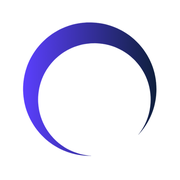
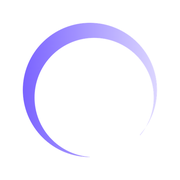
Znak w nagłówku jak w animacji orbity (o 20% wyższy od napisu), nowa ikona przeglądarki z sygnetu

Changed region(s): [[0.1111, 0.1111, 0.8889, 0.8889], [0.75, 0.6944, 0.8056, 0.75]]

diff --git a/docs/index.html b/docs/index.html
@@ -11,7 +11,6 @@
 <meta property="og:description" content="Każda strategia przechodzi przez ludzki umysł. Psychologia biznesu dla zarządów, liderów i zespołów.">
 <meta property="og:image" content="https://inevitable.zone/photos/karina-tomczyk.jpg">
 <link rel="canonical" href="https://inevitable.zone/">
-<link rel="icon" type="image/svg+xml" href="favicon.svg">
 <link rel="icon" type="image/png" sizes="32x32" href="favicon.png">
 <link rel="shortcut icon" href="favicon.ico">
 <link rel="apple-touch-icon" href="apple-touch-icon.png">
@@ -574,15 +573,15 @@ a.back{letter-spacing:.06em}
 
 /* header mark: crescent from the logo with text circling it */
 .logo{display:flex;align-items:center;gap:12px;text-decoration:none}
-.hd-mark{width:58px;height:58px;flex:none;overflow:visible}
-.hd-text{font-family:var(--sans);font-size:118px;font-weight:700;letter-spacing:.12em;fill:var(--ink)}
-@media (max-width:720px){.hd-mark{width:46px;height:46px}.logo{gap:9px}}
+.hd-mark{width:46px;height:46px;flex:none;overflow:visible}
+.hd-text{font-family:var(--sans);font-size:92px;font-weight:700;letter-spacing:.08em;fill:var(--ink)}
+@media (max-width:720px){.hd-mark{width:36px;height:36px}.logo{gap:9px}}
 </style>
 </head>
 <body>
 <header>
   <div class="canvas in bar" style="border:0;background:transparent">
-    <a class="logo" href="#top" aria-label="Inevitable Zone Institute"><svg class="hd-mark" viewBox="270.5 349.7 1120 1120" aria-hidden="true"><defs><linearGradient id="hdarc" gradientUnits="userSpaceOnUse" x1="400" y1="0" x2="1270" y2="0"><stop offset="0" stop-color="#5B3FFE"/><stop offset="1" stop-color="#0E1F3A"/></linearGradient><path id="hdcirc" d="M 335.5 909.7 a 495 495 0 1 1 990 0 a 495 495 0 1 1 -990 0"/></defs><path fill="url(#hdarc)" d="M 813.332031 482.863281 C 864.027344 480.777344 915.167969 487.660156 963.417969 503.230469 C 1003.9375 516.308594 1042.421875 535.507812 1077.25 559.980469 C 1144.238281 607.054688 1197.714844 673.621094 1228.621094 749.382812 C 1265.886719 840.722656 1270.347656 945.429688 1240.964844 1039.621094 C 1228.230469 1080.445312 1209.140625 1119.292969 1185.011719 1154.546875 C 1179.335938 1162.839844 1173.382812 1170.933594 1167.101562 1178.796875 C 1160.804688 1186.675781 1154.179688 1194.324219 1147.324219 1201.90625 C 1146.355469 1202.972656 1145.386719 1204.039062 1144.570312 1204.683594 C 1144.226562 1204.957031 1143.910156 1205.15625 1143.957031 1204.964844 C 1144.007812 1204.765625 1144.472656 1204.121094 1144.90625 1203.527344 C 1145.683594 1202.464844 1146.359375 1201.5625 1147.058594 1200.667969 C 1147.855469 1199.648438 1148.683594 1198.632812 1149.492188 1197.605469 C 1152.589844 1193.683594 1155.390625 1189.609375 1158.164062 1185.503906 C 1163.945312 1176.945312 1169.613281 1168.238281 1174.851562 1159.292969 C 1223.550781 1076.214844 1235.484375 972.730469 1209.394531 880.105469 C 1197.78125 838.882812 1178.640625 799.8125 1153.335938 765.214844 C 1129.585938 732.746094 1100.410156 704.21875 1067.410156 681.242188 C 1031.976562 656.574219 992.140625 638.304688 950.304688 627.742188 C 925.964844 621.597656 900.949219 618.0625 875.800781 617.054688 C 849.230469 615.988281 822.515625 617.738281 796.382812 622.40625 C 752.667969 630.21875 710.578125 646.195312 672.679688 669.289062 C 638.175781 690.308594 607.148438 717.222656 581.386719 748.394531 C 554.691406 780.695312 533.65625 817.570312 519.597656 856.992188 C 502.714844 904.328125 495.894531 955.335938 499.570312 1005.515625 C 502.984375 1052.125 515.457031 1098.019531 536.226562 1139.824219 C 554.378906 1176.367188 578.867188 1209.785156 608.160156 1238.273438 C 637.648438 1266.949219 672.003906 1290.632812 709.28125 1307.820312 C 729.5625 1317.171875 750.703125 1324.601562 772.398438 1330.035156 C 784.167969 1332.984375 796.101562 1335.347656 808.09375 1337.128906 C 814.355469 1338.058594 820.632812 1338.824219 827.027344 1339.355469 C 828.792969 1339.503906 830.566406 1339.628906 832.214844 1339.753906 C 833.703125 1339.867188 835.085938 1339.976562 837.066406 1340.128906 C 838.164062 1340.210938 839.445312 1340.304688 839.835938 1340.441406 C 840.085938 1340.53125 839.96875 1340.636719 839.742188 1340.71875 C 839.035156 1340.976562 837.273438 1341.003906 835.511719 1341.023438 C 808.820312 1341.28125 782.253906 1339.125 756.175781 1334.550781 C 733.332031 1330.542969 710.863281 1324.675781 689.003906 1317.011719 C 649.320312 1303.101562 611.636719 1283.265625 577.667969 1258.351562 C 511.320312 1209.683594 459.136719 1141.628906 429.816406 1064.832031 C 412.519531 1019.527344 403.175781 971.179688 401.953125 922.605469 C 400.695312 872.621094 408.035156 822.398438 423.917969 775.089844 C 450.261719 696.632812 500.113281 626.203125 565.0625 574.789062 C 597.820312 548.855469 634.417969 527.761719 673.257812 512.429688 C 717.84375 494.835938 765.390625 484.839844 813.332031 482.863281 Z M 813.332031 482.863281 "/><g class="hd-spin"><animateTransform attributeName="transform" type="rotate" from="0 830.5 909.7" to="360 830.5 909.7" dur="40s" repeatCount="indefinite"/><text class="hd-text"><textPath href="#hdcirc" textLength="3080" lengthAdjust="spacing">INEVITABLE ZONE · INEVITABLE ZONE · </textPath></text></g></svg><img src="logo.png" alt="Inevitable Zone" width="440" height="143"></a>
+    <a class="logo" href="#top" aria-label="Inevitable Zone Institute"><svg class="hd-mark" viewBox="-9.5 69.70000000000005 1680 1680" aria-hidden="true"><defs><linearGradient id="hdarc" gradientUnits="userSpaceOnUse" x1="400" y1="0" x2="1270" y2="0"><stop offset="0" stop-color="#5B3FFE"/><stop offset="1" stop-color="#0E1F3A"/></linearGradient><path id="hdcirc" d="M 64.5 909.7 a 766 766 0 1 1 1532 0 a 766 766 0 1 1 -1532 0"/></defs><path fill="url(#hdarc)" d="M 813.332031 482.863281 C 864.027344 480.777344 915.167969 487.660156 963.417969 503.230469 C 1003.9375 516.308594 1042.421875 535.507812 1077.25 559.980469 C 1144.238281 607.054688 1197.714844 673.621094 1228.621094 749.382812 C 1265.886719 840.722656 1270.347656 945.429688 1240.964844 1039.621094 C 1228.230469 1080.445312 1209.140625 1119.292969 1185.011719 1154.546875 C 1179.335938 1162.839844 1173.382812 1170.933594 1167.101562 1178.796875 C 1160.804688 1186.675781 1154.179688 1194.324219 1147.324219 1201.90625 C 1146.355469 1202.972656 1145.386719 1204.039062 1144.570312 1204.683594 C 1144.226562 1204.957031 1143.910156 1205.15625 1143.957031 1204.964844 C 1144.007812 1204.765625 1144.472656 1204.121094 1144.90625 1203.527344 C 1145.683594 1202.464844 1146.359375 1201.5625 1147.058594 1200.667969 C 1147.855469 1199.648438 1148.683594 1198.632812 1149.492188 1197.605469 C 1152.589844 1193.683594 1155.390625 1189.609375 1158.164062 1185.503906 C 1163.945312 1176.945312 1169.613281 1168.238281 1174.851562 1159.292969 C 1223.550781 1076.214844 1235.484375 972.730469 1209.394531 880.105469 C 1197.78125 838.882812 1178.640625 799.8125 1153.335938 765.214844 C 1129.585938 732.746094 1100.410156 704.21875 1067.410156 681.242188 C 1031.976562 656.574219 992.140625 638.304688 950.304688 627.742188 C 925.964844 621.597656 900.949219 618.0625 875.800781 617.054688 C 849.230469 615.988281 822.515625 617.738281 796.382812 622.40625 C 752.667969 630.21875 710.578125 646.195312 672.679688 669.289062 C 638.175781 690.308594 607.148438 717.222656 581.386719 748.394531 C 554.691406 780.695312 533.65625 817.570312 519.597656 856.992188 C 502.714844 904.328125 495.894531 955.335938 499.570312 1005.515625 C 502.984375 1052.125 515.457031 1098.019531 536.226562 1139.824219 C 554.378906 1176.367188 578.867188 1209.785156 608.160156 1238.273438 C 637.648438 1266.949219 672.003906 1290.632812 709.28125 1307.820312 C 729.5625 1317.171875 750.703125 1324.601562 772.398438 1330.035156 C 784.167969 1332.984375 796.101562 1335.347656 808.09375 1337.128906 C 814.355469 1338.058594 820.632812 1338.824219 827.027344 1339.355469 C 828.792969 1339.503906 830.566406 1339.628906 832.214844 1339.753906 C 833.703125 1339.867188 835.085938 1339.976562 837.066406 1340.128906 C 838.164062 1340.210938 839.445312 1340.304688 839.835938 1340.441406 C 840.085938 1340.53125 839.96875 1340.636719 839.742188 1340.71875 C 839.035156 1340.976562 837.273438 1341.003906 835.511719 1341.023438 C 808.820312 1341.28125 782.253906 1339.125 756.175781 1334.550781 C 733.332031 1330.542969 710.863281 1324.675781 689.003906 1317.011719 C 649.320312 1303.101562 611.636719 1283.265625 577.667969 1258.351562 C 511.320312 1209.683594 459.136719 1141.628906 429.816406 1064.832031 C 412.519531 1019.527344 403.175781 971.179688 401.953125 922.605469 C 400.695312 872.621094 408.035156 822.398438 423.917969 775.089844 C 450.261719 696.632812 500.113281 626.203125 565.0625 574.789062 C 597.820312 548.855469 634.417969 527.761719 673.257812 512.429688 C 717.84375 494.835938 765.390625 484.839844 813.332031 482.863281 Z M 813.332031 482.863281 "/><g class="hd-spin"><animateTransform attributeName="transform" type="rotate" from="0 830.5 909.7" to="360 830.5 909.7" dur="12s" repeatCount="indefinite"/><text class="hd-text"><textPath href="#hdcirc" textLength="4813" lengthAdjust="spacing">INEVITABLE ZONE INSTITUTE · HUMAN REFLECTION OF BUSINESS · </textPath></text></g></svg><img src="logo.png" alt="Inevitable Zone" width="440" height="143"></a>
     <nav aria-label="Menu">
       <ul id="nav">
         <li><a href="#oferta"><span class="pl">Oferta</span><span class="en">Services</span></a></li>
